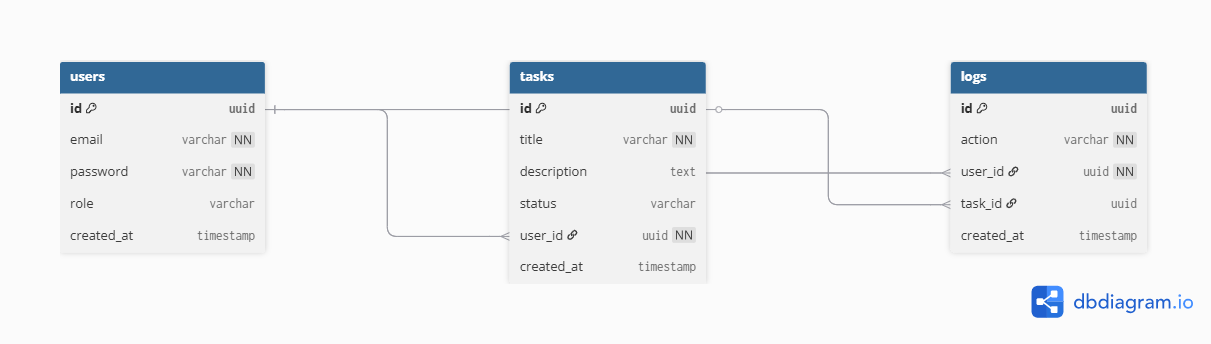
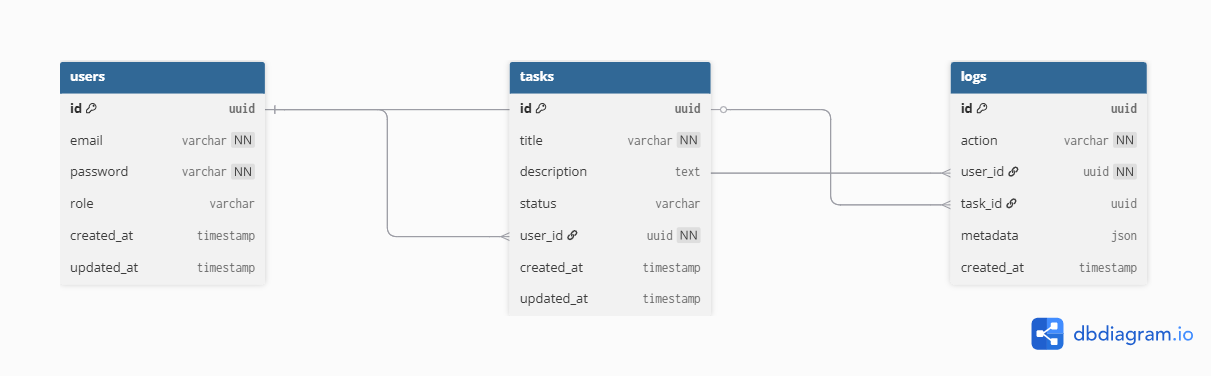
feat(logs): add audit logging system for auth and task actions

diff --git a/src/tasks/tasks.service.ts b/src/tasks/tasks.service.ts
@@ -5,6 +5,8 @@ import { Injectable, NotFoundException } from "@nestjs/common";
 import { UpdateTaskDto } from "./dtos/update-task.dto";
 import { InjectRepository } from "@nestjs/typeorm";
 import { UsersService } from "src/users/users.service";
+import { LogsService } from "src/logs/logs.service";
+import { LogAction } from "utils/enum";
 
 
 @Injectable()
@@ -12,7 +14,8 @@ export class TasksService {
     constructor(
         @InjectRepository(Task)
         private readonly taskRepository: Repository<Task>,
-        private readonly usersService: UsersService
+        private readonly usersService: UsersService,
+        private readonly logsService: LogsService
     ) { }
 
     /**
@@ -24,6 +27,12 @@ export class TasksService {
     public async create(createTaskDto: CreateTaskDto, userId: string): Promise<Task> {
         const user = await this.usersService.getCurrentUser(userId);
         const task = this.taskRepository.create({ ...createTaskDto, user });
+        await this.logsService.createLog({
+            action: LogAction.CREATE_TASK,
+            userId: user.id,
+            entity: 'Task',
+            entityId: task.id,
+        });
         return this.taskRepository.save(task);
     }
 
@@ -33,8 +42,14 @@ export class TasksService {
      * @returns An array of tasks belonging to the user.
      */
     public async findAllUserTasks(userId: string): Promise<Task[]> {
-        const user = await this.usersService.getCurrentUser(userId);
-        return this.taskRepository.find({ where: { user } });
+        const tasks = await this.taskRepository.find({ where: { user: { id: userId } } });
+        await this.logsService.createLog({
+            action: LogAction.READ_ALL_TASKS,
+            userId: userId,
+            entity: 'Task',
+            entityId: userId,
+        });
+        return tasks;
     }
 
     /**
@@ -45,11 +60,16 @@ export class TasksService {
      * @throws NotFoundException if the task is not found.
      */
     public async findOneUserTask(id: string, userId: string): Promise<Task> {
-        const user = await this.usersService.getCurrentUser(userId);
-        const task = await this.taskRepository.findOne({ where: {id} });
+        const task = await this.taskRepository.findOne({ where: {user: {id: userId}, id} });
         if (!task) {
             throw new NotFoundException(`Task not found`);
         }
+        await this.logsService.createLog({
+            action: LogAction.READ_TASK,
+            userId: userId,
+            entity: 'Task',
+            entityId: task.id,
+        });
         return task;
     }
 
@@ -65,9 +85,6 @@ export class TasksService {
         const {title, description, status} = updateTaskDto;
         const user = await this.usersService.getCurrentUser(userId);
         const task = await this.findOneUserTask(id, user.id);
-        if (!task) {
-            throw new NotFoundException(`Task not found`);
-        }
         if (title) {
             task.title = title;
         }
@@ -77,6 +94,12 @@ export class TasksService {
         if (status) {
             task.status = status;
         }
+        await this.logsService.createLog({
+            action: LogAction.UPDATE_TASK,
+            userId: user.id,
+            entity: 'Task',
+            entityId: task.id,
+        });
         return this.taskRepository.save(task);
     }
 
@@ -91,6 +114,12 @@ export class TasksService {
         const user = await this.usersService.getCurrentUser(userId);
         const task = await this.findOneUserTask(id, user.id);
         await this.taskRepository.remove(task);
+        await this.logsService.createLog({
+            action: LogAction.DELETE_TASK,
+            userId: user.id,
+            entity: 'Task',
+            entityId: task.id,
+        });
         return {
             message: "Task deleted successfully"
         }

diff --git a/src/users/auth.service.ts b/src/users/auth.service.ts
@@ -5,12 +5,15 @@ import { UsersService } from './users.service';
 import { RegisterDto } from './dtos/register.dto';
 import { LoginDto } from './dtos/login.dto';
 import { JWTPayloadType } from 'utils/type';
+import { LogsService } from 'src/logs/logs.service';
+import { LogAction } from 'utils/enum';
 
 @Injectable()
 export class AuthService {
   constructor(
     private readonly usersService: UsersService,
     private readonly jwtService: JwtService,
+    private readonly logsService: LogsService
   ) { }
 
   /**
@@ -24,6 +27,13 @@ export class AuthService {
     const payload: JWTPayloadType = { sub: user.id, email: user.email };
 
     const token = this.jwtService.sign(payload);
+
+    await this.logsService.createLog({
+      action: LogAction.REGISTER,
+      userId: user.id,
+      entity: 'User',
+      entityId: user.id,
+    });
 
     return {
       accessToken: token,
@@ -60,6 +70,13 @@ export class AuthService {
     };
 
     const accessToken = this.jwtService.sign(payload);
+
+    await this.logsService.createLog({
+      action: LogAction.LOGIN,
+      userId: user.id,
+      entity: 'User',
+      entityId: user.id,
+    });
 
     return {
       accessToken,

diff --git a/src/users/users.service.ts b/src/users/users.service.ts
@@ -20,10 +20,7 @@ export class UsersService {
   public async createUser(registerDto: RegisterDto): Promise<User> {
     const { email, password, username } = registerDto;
 
-    const existingUser = await this.usersRepository.findOne({
-      where: { email },
-    });
-
+    const existingUser = await this.usersRepository.findOne({ where: { email } });
     if (existingUser) {
       throw new BadRequestException('Email already in use');
     }
@@ -43,7 +40,7 @@ export class UsersService {
   /**
    * Find user by email
    * @param email 
-   * @returns User object or null
+   * @returns User object
    */
   public async findByEmail(email: string): Promise<User> {
     const user = await this.usersRepository.findOne({ where: { email } });
@@ -53,6 +50,11 @@ export class UsersService {
     return user;
   }
 
+  /**
+   * Get current user
+   * @param id 
+   * @returns User object
+   */
   public async getCurrentUser(id: string): Promise<User> {
     const user = await this.usersRepository.findOne({ where: { id } });
     if (!user) {

diff --git a/src/logs/entities/log.entity.ts b/src/logs/entities/log.entity.ts
@@ -1,0 +1,38 @@
+import {
+  Entity,
+  PrimaryGeneratedColumn,
+  Column,
+  ManyToOne,
+} from 'typeorm';
+import { User } from '../../users/entities/user.entity';
+import { LogAction } from 'utils/enum';
+
+@Entity({ name: 'logs' })
+export class Log {
+  @PrimaryGeneratedColumn()
+  id: number;
+
+  @Column({
+    type: 'enum',
+    enum: LogAction,
+  })
+  action: LogAction;
+
+  @Column({ type: 'varchar', length: 50 })
+  entity: string;
+
+  @Column({ type: 'uuid', nullable: true })
+  entityId?: string;
+
+  @ManyToOne(() => User, { onDelete: 'SET NULL' })
+  user: User;
+
+  @Column({ type: 'uuid', nullable: true })
+  userId: string;
+
+  @Column({ type: 'json', nullable: true })
+  metadata?: Record<string, any>;
+
+  @Column({ type: 'timestamp', default: () => 'CURRENT_TIMESTAMP' })
+  createdAt: Date;
+}

diff --git a/src/users/users.module.ts b/src/users/users.module.ts
@@ -1,4 +1,4 @@
-import { Module } from '@nestjs/common';
+import { forwardRef, Module } from '@nestjs/common';
 import { TypeOrmModule } from '@nestjs/typeorm';
 import { UsersService } from './users.service';
 import { User } from './entities/user.entity';
@@ -7,10 +7,13 @@ import { ConfigService } from '@nestjs/config';
 import { UsersController } from './users.controller';
 import { AuthService } from './auth.service';
 import { AuthGuard } from './guards/auth.guard';
+import { LogsModule } from 'src/logs/logs.module';
 
 @Module({
   imports: [
+    LogsModule,
     TypeOrmModule.forFeature([User]),
+    forwardRef(() => LogsModule),
     JwtModule.registerAsync({
       inject: [ConfigService],
       useFactory: (config: ConfigService) => {

diff --git a/src/logs/logs.service.ts b/src/logs/logs.service.ts
@@ -1,0 +1,24 @@
+import { Injectable } from '@nestjs/common';
+import { InjectRepository } from '@nestjs/typeorm';
+import { Repository } from 'typeorm';
+import { Log } from './entities/log.entity';
+import { LogAction } from 'utils/enum';
+
+@Injectable()
+export class LogsService {
+  constructor(
+    @InjectRepository(Log)
+    private readonly logsRepository: Repository<Log>,
+  ) {}
+
+  public async createLog(data: {
+    action: LogAction;
+    userId?: string;
+    entity: string;
+    entityId?: string;
+    metadata?: Record<string, any>;
+  }) {
+    const log = this.logsRepository.create(data);
+    return this.logsRepository.save(log);
+  }
+}

diff --git a/src/tasks/tasks.module.ts b/src/tasks/tasks.module.ts
@@ -5,12 +5,15 @@ import { TasksService } from './tasks.service';
 import { UsersModule } from '../users/users.module';
 import { JwtModule } from '@nestjs/jwt';
 import { TasksController } from './tasks.controller';
+import { LogsModule } from 'src/logs/logs.module';
 
 @Module({
     imports: [
         UsersModule,
+        LogsModule,
         TypeOrmModule.forFeature([Task]),
         forwardRef(() => UsersModule),
+        forwardRef(() => LogsModule),
         JwtModule
     ],
     providers: [TasksService],

diff --git a/src/app.module.ts b/src/app.module.ts
@@ -8,10 +8,12 @@ import { typeOrmConfig } from './config/database.config';
 import { ThrottlerGuard, ThrottlerModule } from '@nestjs/throttler';
 import { APP_GUARD } from '@nestjs/core';
 import { TasksModule } from './tasks/tasks.module';
+import { LogsModule } from './logs/logs.module';
 @Module({
   imports: [
     UsersModule,
     TasksModule,
+    LogsModule,
     ConfigModule.forRoot({
       isGlobal: true,
     }),

diff --git a/utils/enum.ts b/utils/enum.ts
@@ -8,3 +8,13 @@ export enum TaskStatus {
     IN_PROGRESS = 'in_progress',
     COMPLETED = 'completed',
 }
+
+export enum LogAction {
+    REGISTER = 'REGISTER',
+    LOGIN = 'LOGIN',
+    CREATE_TASK = 'CREATE_TASK',
+    UPDATE_TASK = 'UPDATE_TASK',
+    DELETE_TASK = 'DELETE_TASK',
+    READ_ALL_TASKS = 'READ_ALL_TASKS',
+    READ_TASK = 'READ_TASK',
+}

diff --git a/src/logs/logs.module.ts b/src/logs/logs.module.ts
@@ -1,0 +1,11 @@
+import { Module } from '@nestjs/common';
+import { TypeOrmModule } from '@nestjs/typeorm';
+import { Log } from './entities/log.entity';
+import { LogsService } from './logs.service';
+
+@Module({
+  imports: [TypeOrmModule.forFeature([Log])],
+  providers: [LogsService],
+  exports: [LogsService],
+})
+export class LogsModule {}
